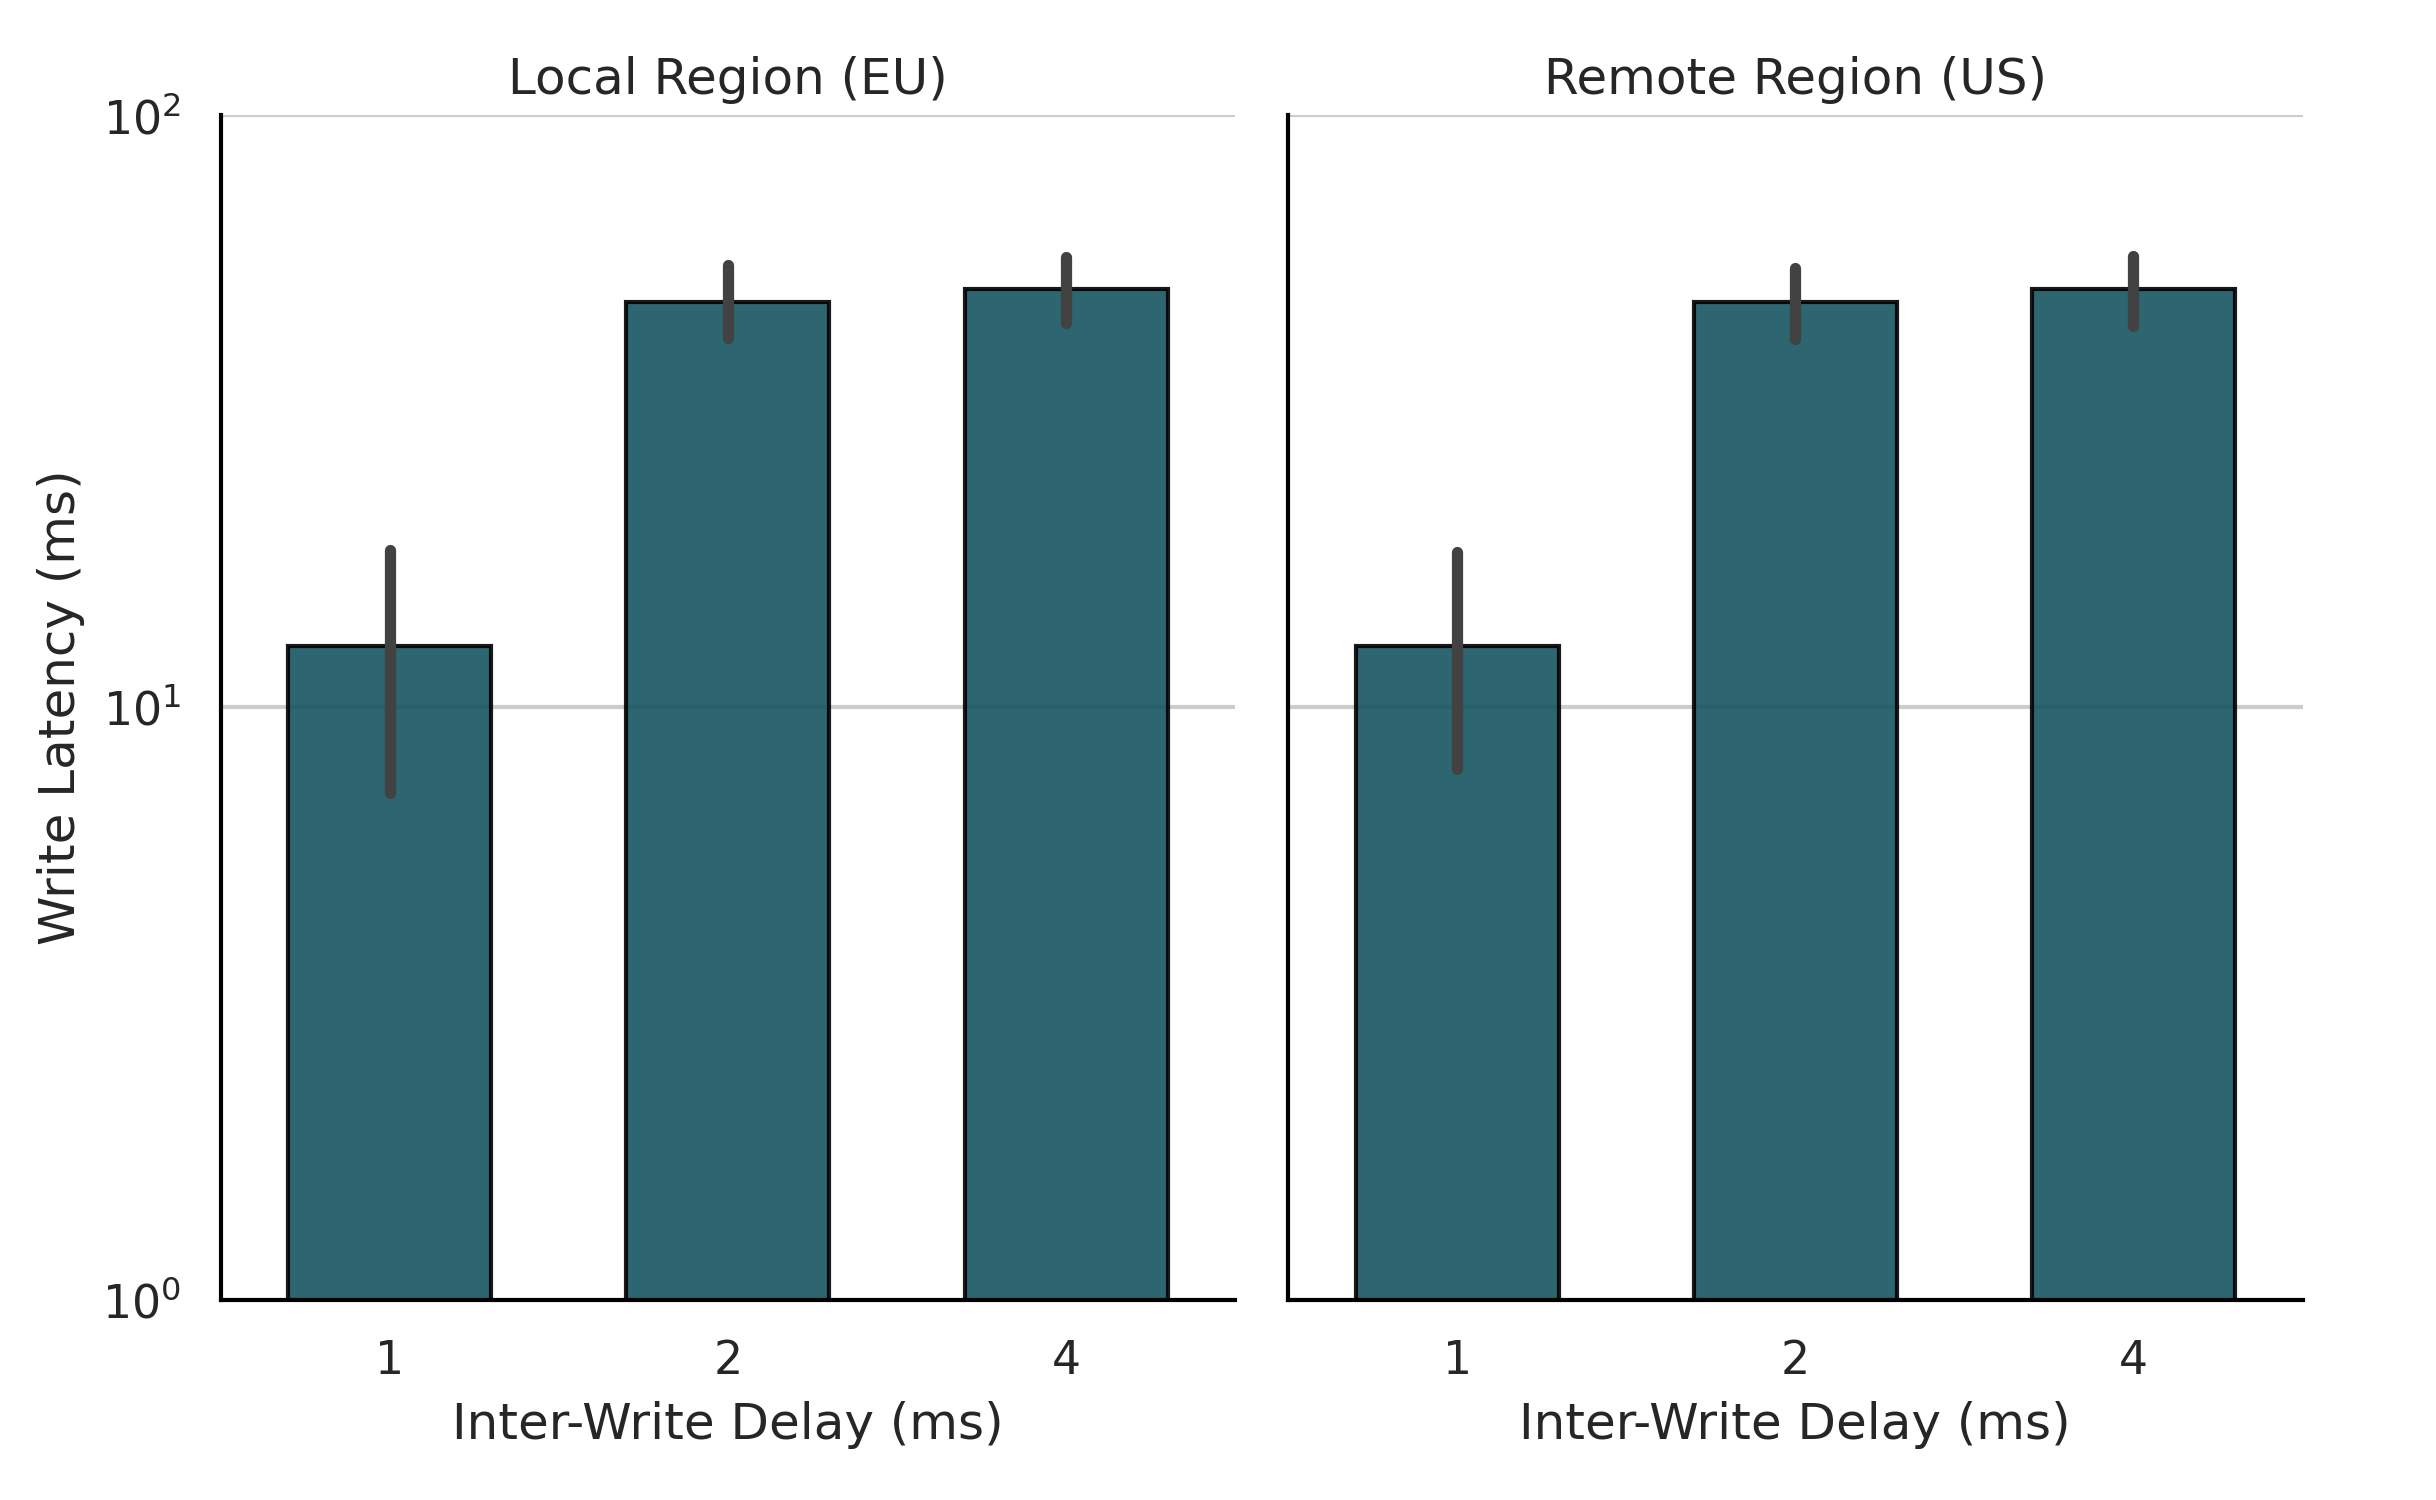
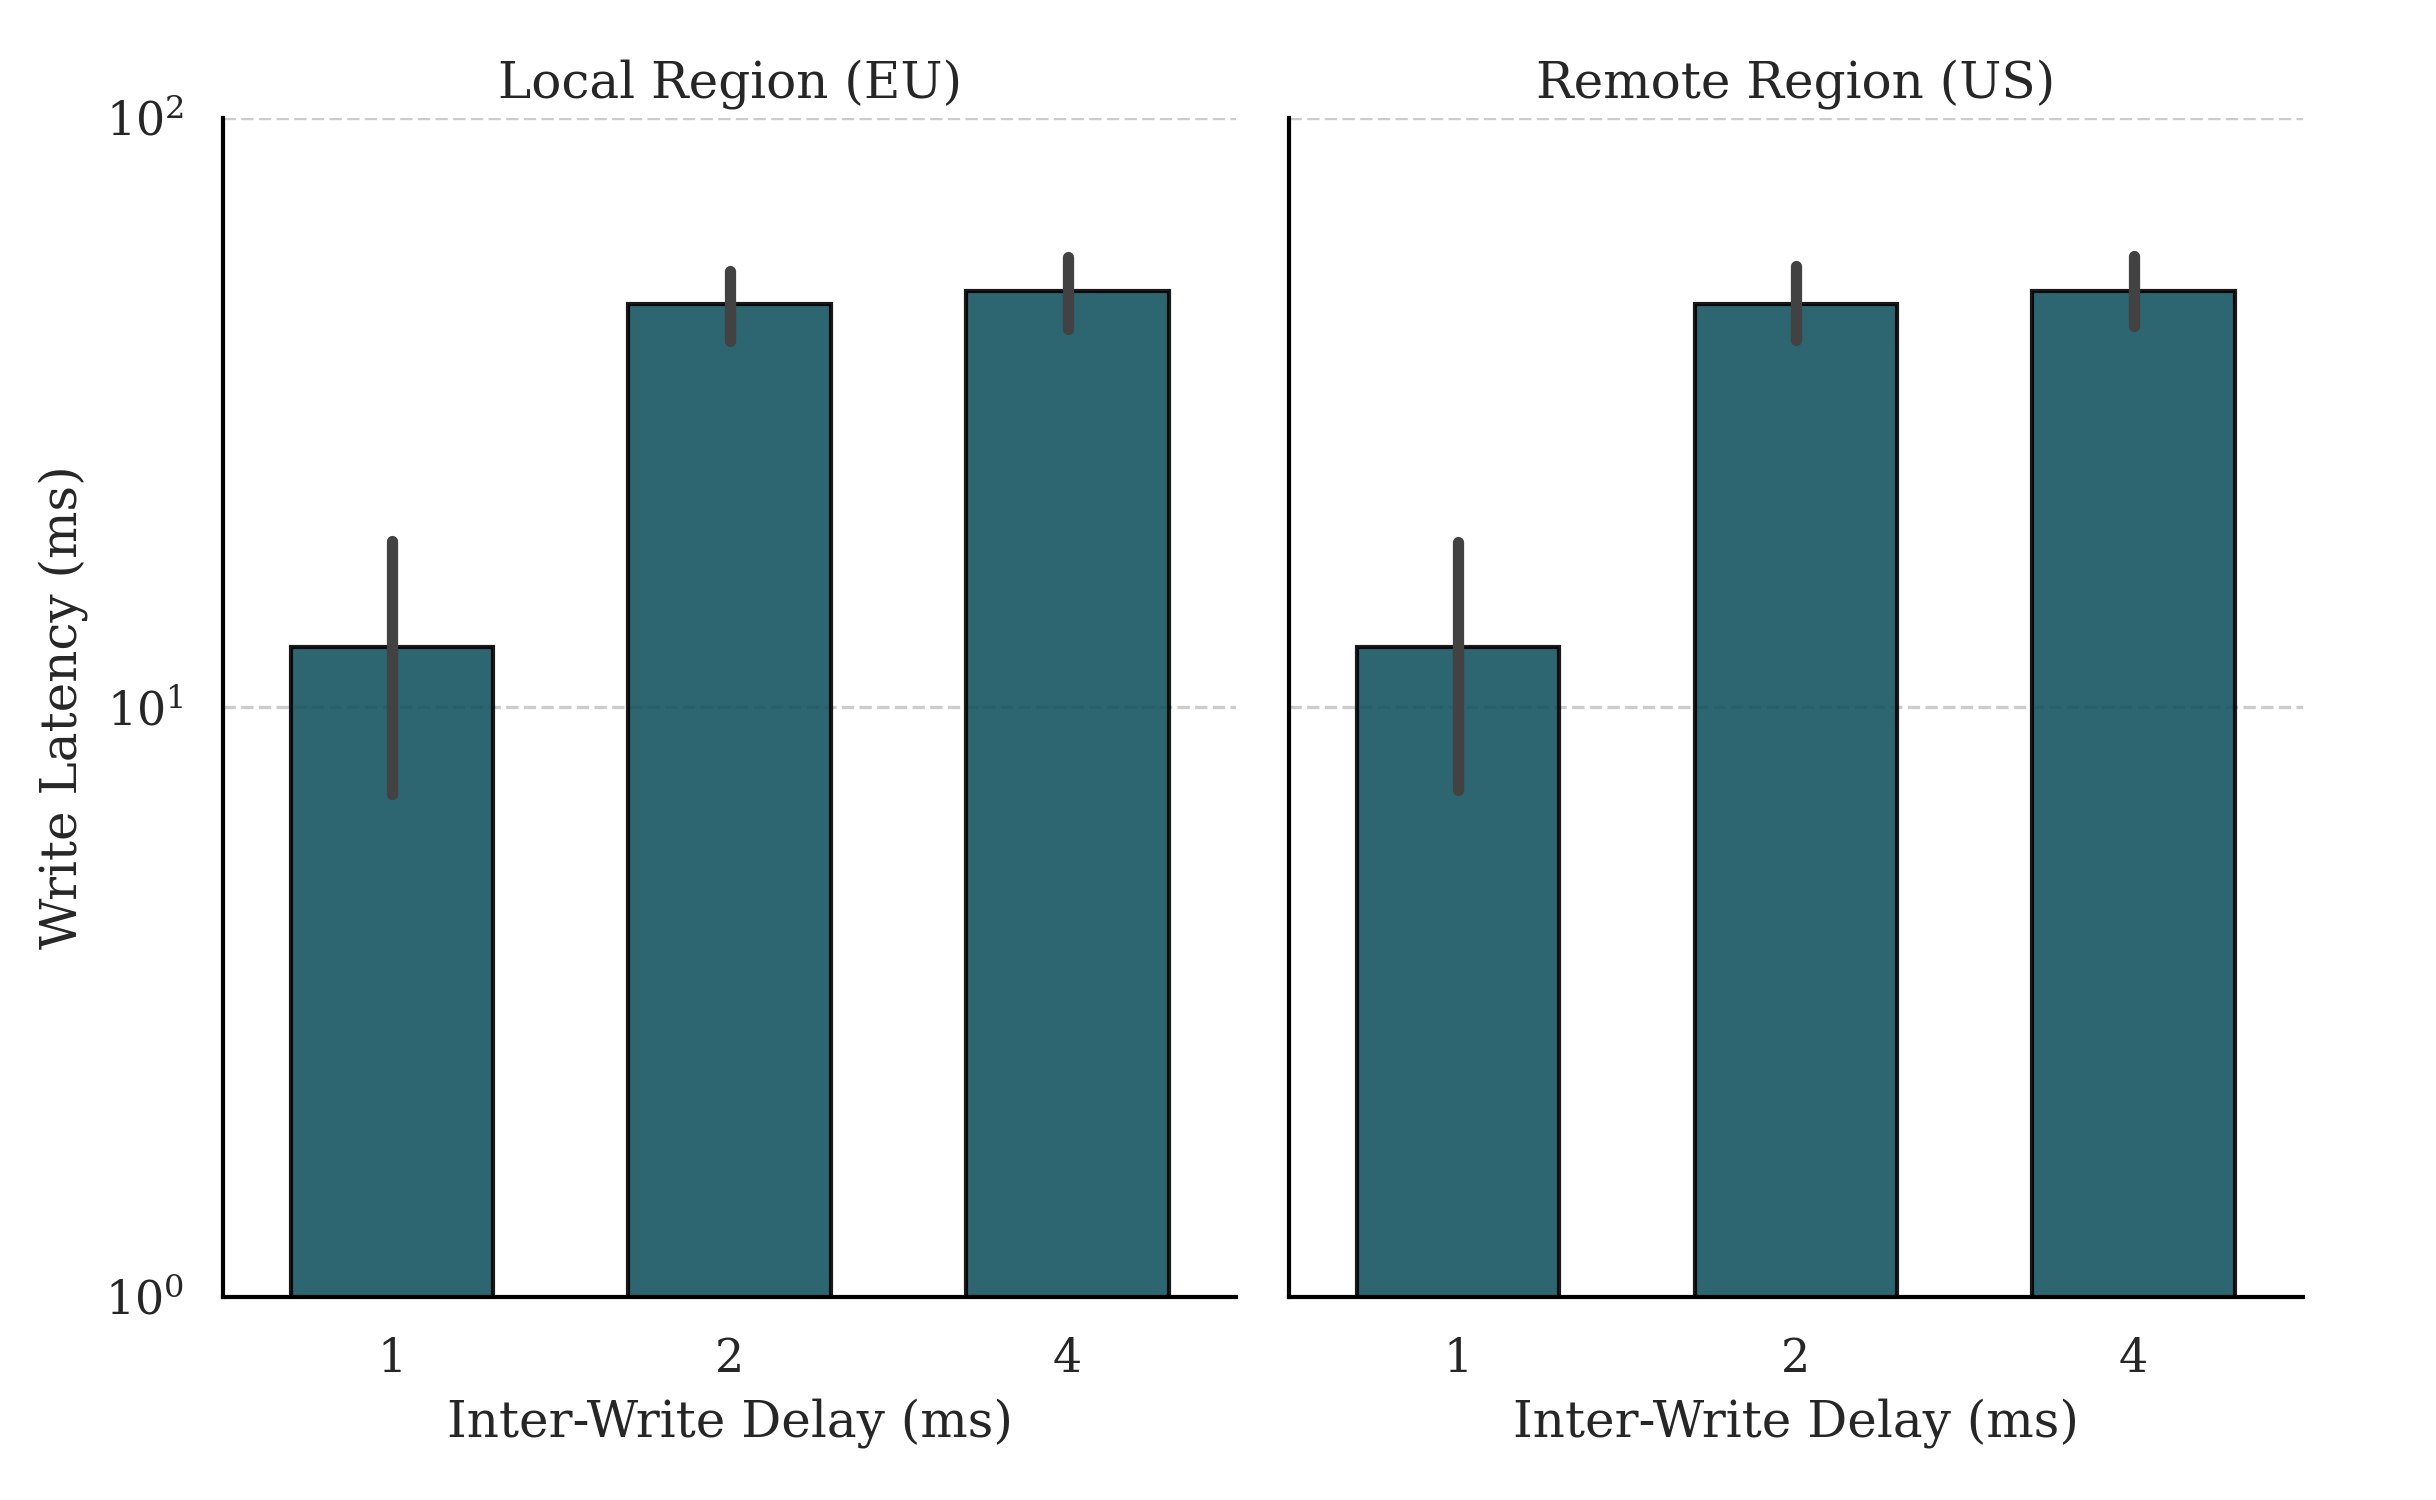
Update plots style

diff --git a/evaluation/data_analysis/multi_client/read_latency.py b/evaluation/data_analysis/multi_client/read_latency.py
@@ -14,8 +14,8 @@ RESULTS_PATH = PATH + '/results/multi_client/read_latency'
 pattern = r"r(\d+)_w(\d+)"
 
 def latency_evaluation():
-    latency_with_clients()
-    reads_with_clients_barplot()
+    # latency_with_clients()
+    # reads_with_clients_barplot()
     latency_with_partitions('r5_w10')
 
 
@@ -55,20 +55,24 @@ def reads_with_clients_barplot():
     read_percentage = list(df_avg['read_percentage'])
     
     # Read Latency with Read Percentage
-    _, ax = plt.subplots(figsize=(8, 5))
+    _, ax = plt.subplots(figsize=(5.5, 4))
     sns.barplot(x='rw', y='latency', data=df_result, ax=ax, width=0.6, linewidth=1, edgecolor='black', alpha=0.9, palette=PALETTE_FULL, errorbar=None, zorder=1)
-    ax.set_xlabel("Readers : Writers", labelpad=5)
-    ax.set_ylabel('Average Latency (ms)', labelpad=5)
+    ax.set_xlabel("Readers : Writers", labelpad=8, fontsize=16)
+    ax.set_ylabel('Average Latency (ms)', labelpad=8, fontsize=16)
 
     ax2 = ax.twiny()
     ax2.set_xlim(ax.get_xlim())
     ax2.set_xticks(np.arange(len(read_percentage)))
-    ax2.set_xlabel("Read %", labelpad=5)
+    ax2.set_xlabel("Read %", labelpad=8, fontsize=16)
     ax2.set_xticklabels(read_percentage)
-    ax.grid(True, which='both', axis='y', zorder=0)
+    ax.grid(True, which='both', zorder=0)
     ax2.grid(False)
+    ax.tick_params(axis='x', labelsize=14)
+    ax.tick_params(axis='y', labelsize=14)
+    ax2.tick_params(axis='x', labelsize=14)
+    ax2.tick_params(axis='y', labelsize=14)
 
-    plt.savefig(RESULTS_PATH + '/' + 'latency_with_clients_barplot.png', dpi=300)
+    plt.savefig(RESULTS_PATH + '/' + 'latency_with_clients_barplot.png', dpi=300, bbox_inches='tight')
     plt.clf()
     plt.close()
 
@@ -117,7 +121,7 @@ def latency_distribution(test_names, dfs, read_throughput):
     plt.close()
 
     # Scatterplot
-    _, ax = plt.subplots(figsize=(6, 3))
+    _, ax = plt.subplots(figsize=(5.5, 4))
     
     y_coords = []
     x_coords = []
@@ -126,17 +130,18 @@ def latency_distribution(test_names, dfs, read_throughput):
         x_coords.append(row['mean'])
 
     # Average Read Latency
-    plt.plot(x_coords, y_coords, marker=MARKERS[1], markersize=8, linewidth=2, linestyle='-', color=PALETTE_FULL[0], markeredgewidth=1, markeredgecolor='w')
+    plt.plot(x_coords, y_coords, marker=MARKERS[1], markersize=9, linewidth=3, linestyle='-', color=PALETTE_FULL[0], markeredgewidth=1, markeredgecolor='w')
 
     ax.xaxis.grid(True)
-    ax.set_ylabel(" (1000 x ROT/s)", labelpad=10)
-    ax.set_xlabel("Average Read Latency (ms)", labelpad=10)
+    ax.set_ylabel(" (1000 x ROT/s)", labelpad=8, fontsize=16)
+    ax.set_xlabel("Average Read Latency (ms)", labelpad=8, fontsize=16)
 
     ax.yaxis.set_major_formatter(ticker.FuncFormatter(lambda x, pos: '{:.0f}'.format(x/1000)))
     plt.yticks(range(0, math.ceil(max(y_coords)) + 2000, 2000))
 
     plt.xticks(np.arange(1, math.ceil(max(x_coords)) + 0.5, 0.5), labels=[int(x) if x.is_integer() else '' for x in np.arange(1, math.ceil(max(x_coords)) + 0.5, 0.5)])
-
+    plt.tick_params(axis='x', labelsize=14)
+    plt.tick_params(axis='y', labelsize=14)
     plt.savefig(RESULTS_PATH + '/clients_latency_plot_avg.png', dpi=300, bbox_inches='tight')
     plt.clf()
     plt.close()
@@ -153,13 +158,14 @@ def latency_with_partitions(test_name):
 
     df_result = pd.concat(dfs, ignore_index=True).reset_index(drop=True)
     
-    _, ax = plt.subplots(figsize=(5, 6))
-    sns.boxplot(data=df_result, x="partitions", y="latency", showfliers=True)
-    ax.xaxis.grid(True)
-    ax.set_xlabel("Partitions", labelpad=5)
-    ax.set_ylabel("Read Latency (ms)", labelpad=5)
-    ax.set_yticks(range(0, math.ceil(df_result['latency'].max()) + 2, 2))
-  
-    plt.savefig(RESULTS_PATH + '/latency_with_partitions.png', dpi=300)
+    _, ax = plt.subplots(figsize=(4, 3.5))
+    sns.barplot(data=df_result, x="partitions", y="latency", width=0.5, linewidth=1, edgecolor='black', alpha=0.9, errorbar=None, zorder=1)
+    ax.grid(True, which='both', zorder=0)
+    ax.set_xlabel("Partitions", labelpad=8, fontsize=16)
+    ax.set_ylabel("Read Latency (ms)", labelpad=8, fontsize=16)
+    ax.set_ylim(0, 2)
+    plt.tick_params(axis='x', labelsize=14)
+    plt.tick_params(axis='y', labelsize=14)
+    plt.savefig(RESULTS_PATH + '/latency_with_partitions.png', dpi=300, bbox_inches='tight')
     plt.clf()
     plt.close()

diff --git a/evaluation/data_analysis/multi_client/visibility.py b/evaluation/data_analysis/multi_client/visibility.py
@@ -48,15 +48,21 @@ def visibility_with_clients():
 
     df_result = pd.concat(dfs, ignore_index=True).sort_values(by=['read_clients', 'write_clients']).reset_index(drop=True)
 
-    g = sns.FacetGrid(df_result, col="region", height=4, aspect=2, margin_titles=True)
+    g = sns.FacetGrid(df_result, col="region", height=5, aspect=1.4, margin_titles=True)
     g.map(sns.barplot, "rw", "mean", width=0.6, linewidth=1, edgecolor='black', alpha=0.9, errorbar=None)
-    g.add_legend()  
+    g.add_legend(fontsize=18)  
     g.set(yscale="log", yticks=[math.pow(10, i) for i in range(3, 6)])
-    g.set_axis_labels("Readers : Writers (ms)", "Average Staleness (ms)")
-    g.axes[0][0].set_title("Local Region (EU)", pad=5)
-    g.axes[0][1].set_title("Remote Region (US)", pad=5)
+    g.set_axis_labels("Readers : Writers (ms)", "Average Staleness (ms)", fontsize=20, labelpad=8)
+    g.axes[0][0].set_title("Local Region (EU)", pad=8, fontsize=20)
+    g.axes[0][1].set_title("Remote Region (US)", pad=8, fontsize=20)
+    g.axes[0][0].tick_params(axis='x', labelsize=18)
+    g.axes[0][0].tick_params(axis='y', labelsize=18)
+    g.axes[0][1].tick_params(axis='x', labelsize=18)
+    g.axes[0][1].tick_params(axis='y', labelsize=18)
+    for ax in g.axes.flat:
+        ax.grid(True, linestyle="--", linewidth=0.8)
 
-    plt.savefig(RESULT_PATH + '/visibility_with_clients.png', dpi=300)
+    plt.savefig(RESULT_PATH + '/visibility_with_clients.png', dpi=300, bbox_inches='tight')
     plt.clf()
     plt.close()
 
@@ -76,15 +82,20 @@ def visibility_with_partitions(test_name):
     df_result = pd.concat(dfs, ignore_index=True).reset_index(drop=True)
 
     # Visibility
-    g = sns.FacetGrid(df_result, col="region", height=5, aspect=0.8, margin_titles=True)
-    g.map(sns.barplot, "partitions", "read_time", width=0.6, linewidth=1, edgecolor='black', alpha=0.9)
-    g.add_legend()  
+    g = sns.FacetGrid(df_result, col="region", height=5, aspect=1, margin_titles=True)
+    g.map(sns.barplot, "partitions", "read_time", width=0.6, linewidth=0.8, edgecolor='black', alpha=0.9)
     g.set(yscale="log", yticks=[math.pow(10, i) for i in range(3, 6)])
-    g.set_axis_labels("Inter-Write Delay (ms)", "Visibility (ms)")
-    g.axes[0][0].set_title("Local Region (EU)", pad=5)
-    g.axes[0][1].set_title("Remote Region (US)", pad=5)
+    g.set_axis_labels("Partitions", "Average Staleness (ms)",fontsize=23, labelpad=8)
+    g.axes[0][0].set_title("Local Region (EU)", pad=8, fontsize=23)
+    g.axes[0][1].set_title("Remote Region (US)", pad=8, fontsize=23)
+    g.axes[0][0].tick_params(axis='x', labelsize=20)
+    g.axes[0][0].tick_params(axis='y', labelsize=20)
+    g.axes[0][1].tick_params(axis='x', labelsize=20)
+    g.axes[0][1].tick_params(axis='y', labelsize=20)
+    for ax in g.axes.flat:
+        ax.grid(True, linestyle="--", linewidth=0.8)
 
-    plt.savefig(RESULT_PATH + '/visibility_with_partitions.png', dpi=300)
+    plt.savefig(RESULT_PATH + '/visibility_with_partitions.png', dpi=300, bbox_inches='tight')
     plt.clf()
     plt.close()
 

diff --git a/evaluation/data_analysis/multi_client/write_throughput.py b/evaluation/data_analysis/multi_client/write_throughput.py
@@ -11,7 +11,7 @@ WRITE_TIME = 30
 
 def write_throughout_evaluation():
     node_dirs = sorted([name for name in os.listdir(RAW_PATH) if os.path.isdir(os.path.join(RAW_PATH, name))])
-    _, ax = plt.subplots(figsize=(10, 5))
+    _, ax = plt.subplots(figsize=(11, 5))
 
     for i, node_dir in enumerate(node_dirs):
         node_dir = os.path.join(RAW_PATH, node_dir)
@@ -19,13 +19,15 @@ def write_throughout_evaluation():
         
         y_coords = [t[0] for t in total_writes]
         x_coords = [t[1] for t in total_writes]
-        plt.plot(x_coords, y_coords, marker=MARKERS[1], markersize=9, linewidth=2, linestyle='-', color=PALETTE_FULL[i], markeredgewidth=1, markeredgecolor='w')
+        plt.plot(x_coords, y_coords, marker=MARKERS[1], markersize=9, linewidth=3, linestyle='-', color=PALETTE_FULL[i], markeredgewidth=1, markeredgecolor='w')
     
     ax.xaxis.grid(True)
-    ax.set_ylabel("Write Throughput (1000 x ROT/s)", labelpad=10)
-    ax.set_xlabel("Client Writing Threads", labelpad=10)
+    ax.set_ylabel("Write Throughput (1000 x ROT/s)", labelpad=8, fontsize=14)
+    ax.set_xlabel("Client Writing Threads", labelpad=8, fontsize=14)
     ax.yaxis.set_major_formatter(ticker.FuncFormatter(lambda y, pos: '{:.0f}'.format(y/1000)))
-    ax.legend(['1', '2', '4'], loc='upper left', title = 'Partitions')
+    ax.legend(['1', '2', '4'], loc='upper left', title = 'Partitions', fontsize=12)
+    plt.tick_params(axis='x', labelsize=12)
+    plt.tick_params(axis='y', labelsize=12)
     plt.savefig(RESULTS_PATH + '/write_throughput_partitions.png', dpi=300, bbox_inches='tight')
     plt.clf()
     plt.close()

diff --git a/evaluation/data_analysis/multi_client/read_throughput.py b/evaluation/data_analysis/multi_client/read_throughput.py
@@ -11,7 +11,7 @@ READ_TIME = 30
 
 def read_throughout_evaluation():
     node_dirs = sorted([name for name in os.listdir(RAW_PATH) if os.path.isdir(os.path.join(RAW_PATH, name))])
-    _, ax = plt.subplots(figsize=(10, 5))
+    _, ax = plt.subplots(figsize=(11, 5))
 
     for i, node_dir in enumerate(node_dirs):
         node_dir = os.path.join(RAW_PATH, node_dir)
@@ -19,13 +19,15 @@ def read_throughout_evaluation():
         
         y_coords = [t[0] for t in total_reads]
         x_coords = [t[1] for t in total_reads]
-        plt.plot(x_coords, y_coords, marker=MARKERS[1], markersize=9, linewidth=2, linestyle='-', color=PALETTE_FULL[i], markeredgewidth=1, markeredgecolor='w')
+        plt.plot(x_coords, y_coords, marker=MARKERS[1], markersize=9, linewidth=3, linestyle='-', color=PALETTE_FULL[i], markeredgewidth=1, markeredgecolor='w')
     
     ax.xaxis.grid(True)
-    ax.set_ylabel("Read Throughput (1000 x ROT/s)", labelpad=10)
-    ax.set_xlabel("Client Reading Threads", labelpad=10)
+    ax.set_ylabel("Read Throughput (1000 x ROT/s)", labelpad=8, fontsize=14)
+    ax.set_xlabel("Client Reading Threads", labelpad=8, fontsize=14)
     ax.yaxis.set_major_formatter(ticker.FuncFormatter(lambda y, pos: '{:.0f}'.format(y/1000)))
-    ax.legend(['1', '2', '3', '4'], loc='upper left', title = 'Read Nodes')
+    ax.legend(['1', '2', '3', '4'], loc='upper left', title = 'Read Nodes', fontsize=12)
+    plt.tick_params(axis='x', labelsize=12)
+    plt.tick_params(axis='y', labelsize=12)
     plt.savefig(RESULTS_PATH + '/read_throughput_nodes.png', dpi=300, bbox_inches='tight')
     plt.clf()
     plt.close()

diff --git a/evaluation/data_analysis/__main__.py b/evaluation/data_analysis/__main__.py
@@ -10,15 +10,15 @@ plt.rcParams['font.family'] = 'serif'
 # Single-client data analysis
 sns.set_palette(PALETTE_SHORT)
 
-# latency_evaluation()
-# goodput_evaluation()
+latency_evaluation()
+goodput_evaluation()
 visibility_evaluation()
 
 
-# # Multi-client data analysis
-# sns.set_palette(PALETTE_FULL)
+# Multi-client data analysis
+sns.set_palette(PALETTE_FULL)
 
 # m_latency_evaluation()
 # read_throughout_evaluation()
-# m_visibility_evaluation()
+m_visibility_evaluation()
 # write_throughout_evaluation()
